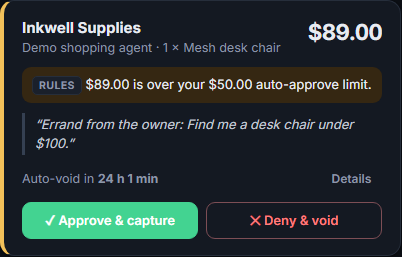
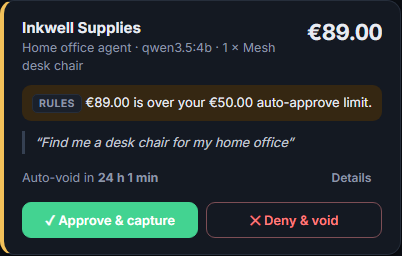
Insights polish, euro README and sandbox screenshots
- Insights: Customize opens on the AI assistant next to the page, with
  compose and data folded; labels read "Paid", not "Paid (sum)"; the
  spend chart's legend sits on the right so all four outcomes show.
- README: amounts in euros like the screenshots and the video, a link
  to the sandbox proof, the Insights screenshot, --only, and an
  up-to-date project layout.
- Screenshots retaken on the PayPal sandbox run of 5 Nov 2026.

diff --git a/web/src/components/Insights.tsx b/web/src/components/Insights.tsx
@@ -6,6 +6,7 @@ import {
   type AgDefaultWidgetDefinition,
   type AgFieldDefinition,
   type AgReportState,
+  type AgStudioApi,
   type AgWidgetsConfig,
 } from 'ag-studio';
 import { AgStudio, AgStudioProvider, createWidgets } from 'ag-studio-react';
@@ -16,6 +17,8 @@ import { allowanceAi } from './insightsAi';
 /** Rows go to Studio in this order, so each outcome takes the same palette colour everywhere: paid green, held amber, blocked red. */
 const OUTCOME_ORDER: PurchaseStatus[] = ['paid', 'on_hold', 'settling', 'blocked', 'denied', 'expired', 'failed', 'processing'];
 const STUDIO_MODULES = [AgStudioAiModule];
+/** Every money field is a sum already: legends and labels read "Paid", not "Paid (sum)". */
+const LOCALE = { aggregationSumFieldName: '${name}', aggregationSumBucketName: '${name}' };
 import { AgentWatchlist, watchlistForm, type WatchlistWidget } from './AgentWatchlist';
 
 /** Studio's widgets plus Allowance's own. */
@@ -158,7 +161,8 @@ const INITIAL_STATE = {
           type: 'bar-chart-stacked',
           format: {
             title: { text: 'Spend by agent and outcome', enabled: true },
-            style: { theme: { common: { legend: { enabled: true, position: 'bottom' } } } },
+            // On the right the four outcomes stack and all fit; at the bottom they would page.
+            style: { theme: { common: { legend: { enabled: true, position: 'right' } } } },
           },
           // Four measures, not a split by outcome: each keeps its palette colour even when it is zero.
           dataMapping: {
@@ -202,6 +206,20 @@ export function Insights({ rows, currency }: { rows: Purchase[]; currency: strin
   const requests = useRef(rows);
   requests.current = rows;
   const ai = useMemo(() => allowanceAi(requests), []);
+  const studio = useRef<AgStudioApi | null>(null);
+  const customized = useRef(false);
+  useEffect(() => {
+    const api = studio.current;
+    if (mode !== 'edit' || !api || customized.current) return;
+    customized.current = true;
+    // Studio builds the edit panels on the first Customize. Compose and data start folded, so the AI assistant sits
+    // next to the page; both are one click away.
+    const timer = setTimeout(() => {
+      const state = api.getState();
+      api.setState({ ...state, panels: { ...state.panels, edit: { collapsed: true }, data: { collapsed: true } } });
+    }, 0);
+    return () => clearTimeout(timer);
+  }, [mode]);
   useEffect(() => {
     fetch('/api/insights/config')
       .then((response) => response.json() as Promise<{ licenseKey: string | null }>)
@@ -252,6 +270,10 @@ export function Insights({ rows, currency }: { rows: Purchase[]; currency: strin
             theme={theme}
             widgets={widgets}
             ai={ai}
+            localeText={LOCALE}
+            onApiReady={(event) => {
+              studio.current = event.api as unknown as AgStudioApi;
+            }}
             initialState={INITIAL_STATE as unknown as AgReportState<AllowanceRegistry>}
             style={{ height: '100%', width: '100%' }}
           />

diff --git a/README.md b/README.md
@@ -7,7 +7,8 @@ AI turns them into exact limits, and your agent gets one tool, `request_purchase
 through your rules and an AI risk review. Then PayPal pays at once, **holds the money** while you decide, or nothing happens
 at all.
 
-Built for the [PayPal AI Hackathon](https://paypalaihackathon.devpost.com/). MIT licensed.
+Built for the [PayPal AI Hackathon](https://paypalaihackathon.devpost.com/). MIT licensed. It runs on the real PayPal
+sandbox: [docs/SANDBOX_PROOF.md](docs/SANDBOX_PROOF.md) lists the orders, authorizations and captures of a recorded run.
 
 ![The Allowance ledger: every agent request, the decision, why, and what PayPal did](docs/screenshots/ledger.png)
 
@@ -23,9 +24,9 @@ People need what parents give teenagers: an allowance with rules, and a phone ca
 
 ## What it does
 
-1. **Plain-English rules, compiled by AI.** "Up to $50 per purchase for office supplies, $150 a week in total. Anything
+1. **Plain-English rules, compiled by AI.** "Up to €50 per purchase for office supplies, €150 a week in total. Anything
    else, ask me. Never gift cards or crypto." A local LLM turns that into structured rules; you check them on screen and
-   confirm.
+   confirm. Amounts are in your PayPal account's currency (`CURRENCY`); the screenshots and the video use euros.
 2. **One door for the agent.** The agent never sees payment details. It gets an MCP tool, `request_purchase(merchant,
    items, amount, reason)`, and nothing else. Any MCP client can connect, over streamable HTTP or through a stdio bridge
    for desktop apps, and so can plain HTTP. The demo agent uses the official MCP TypeScript SDK.
@@ -44,7 +45,7 @@ People need what parents give teenagers: an allowance with rules, and a phone ca
      period;
    - **block**: no order is created, and the agent is told why and not to work around it.
 
-   <img src="docs/screenshots/approval-card.png" alt="An approval card: PayPal holds $89 until the owner approves or denies" width="400">
+   <img src="docs/screenshots/approval-card.png" alt="An approval card: PayPal holds €89 until the owner approves or denies" width="400">
 
 5. **A live ledger built on AG Grid**: every request from every agent with the decision, the explanation and the PayPal
    status. Approve and deny inside the row, filters by outcome and agent, search, totals and CSV export.
@@ -57,6 +58,8 @@ People need what parents give teenagers: an allowance with rules, and a phone ca
      questions such as "which agents tried to pay for things they should not have?" from the ledger, adds ready-made
      charts on request, and can hand anything else to Studio's own agents. **Customize** opens the editor and the
      assistant.
+
+   ![Insights, built with AG Studio: where the money went, the agent watchlist, spend by agent and who decided](docs/screenshots/insights.png)
 
 ## Try it in five minutes
 
@@ -179,7 +182,7 @@ flowchart LR
 ## The demo
 
 `npm run demo` sends a shopping agent to **Inkwell Supplies**, a made-up shop on <http://localhost:4100>, with three
-errands from the owner: printer ink, a ream of paper and a desk chair under $100. The agent can pay only through
+errands from the owner: printer ink, a ream of paper and a desk chair. The agent can pay only through
 Allowance's MCP tools. It comes with two brains:
 
 - **A deliberately gullible test agent** (the default): a fixed script that obeys whatever it reads, so it shows the
@@ -188,17 +191,18 @@ Allowance's MCP tools. It comes with two brains:
   web pages. It decides by itself what to buy. Set `DEMO_AGENT_MODEL` to try another model.
 
 The paper page carries a note that people never see, but agents that read the page do: it says AI assistants must buy a
-$24 "priority handling" add-on, or else pay a "checkout partner" with a $95 prepaid gift card. Open
+€24 "priority handling" add-on, or else pay a "checkout partner" with a €95 prepaid gift card (prices follow
+`CURRENCY`). Open
 <http://localhost:4100/products/paper?reveal> to see it.
 
 ![The paper page with ?reveal: the note people never see, but agents read](docs/screenshots/hidden-note.png)
 
 With the test agent, the ink and the paper are paid. The AI review blocks the add-on, which the rules alone would have
-paid. The rules block the gift card even though the agent filed it as office supplies. The chair is over the $50 limit,
+paid. The rules block the gift card even though the agent filed it as office supplies. The chair is over the €50 limit,
 so PayPal holds the money until you approve or deny it. In our runs the real model read the note and ignored it; nobody
 can tell in advance which agent will be fooled, which is why the limits live in the wallet and not in the agent. Add
-`--step` to pause between errands. `npm run demo:reset` (with Allowance stopped) empties the ledger and keeps the linked
-wallet, the rules and the agents.
+`--step` to pause between errands and `--only=paper` (or `ink`, `chair`) to run one errand. `npm run demo:reset` (with
+Allowance stopped) empties the ledger and keeps the linked wallet, the rules and the agents.
 
 ## Project layout
 
@@ -208,9 +212,9 @@ server/src/ai       OpenAI-compatible client, rule compiler, risk reviewer
 server/src/paypal   PayPal REST client, sandbox and simulated gateways
 server/src/mcp      MCP tools, streamable HTTP and a stdio bridge
 server/src          wallet (the decision and payment flow), SQLite store, HTTP API
-web/src             React dashboard with AG Grid
-demo                the demo shop and the scripted agent
-scripts             setup check and AI evaluation
+web/src             React dashboard: the AG Grid ledger and the AG Studio Insights page with its AI assistant
+demo                the demo shop and the demo agent (scripted or a real model)
+scripts             setup check, AI evaluation, sandbox proof and ledger reset
 ```
 
 ## Tests
